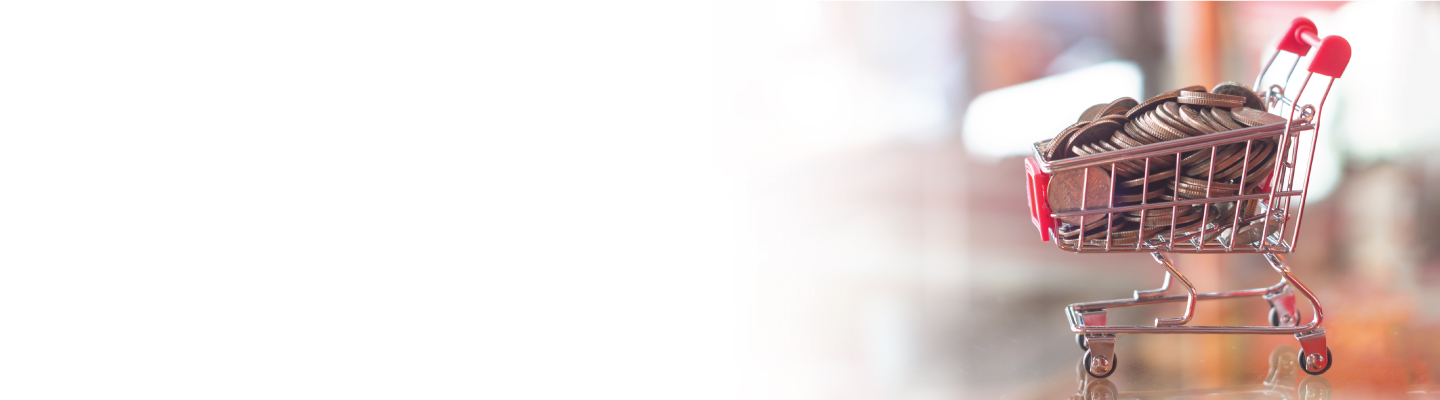
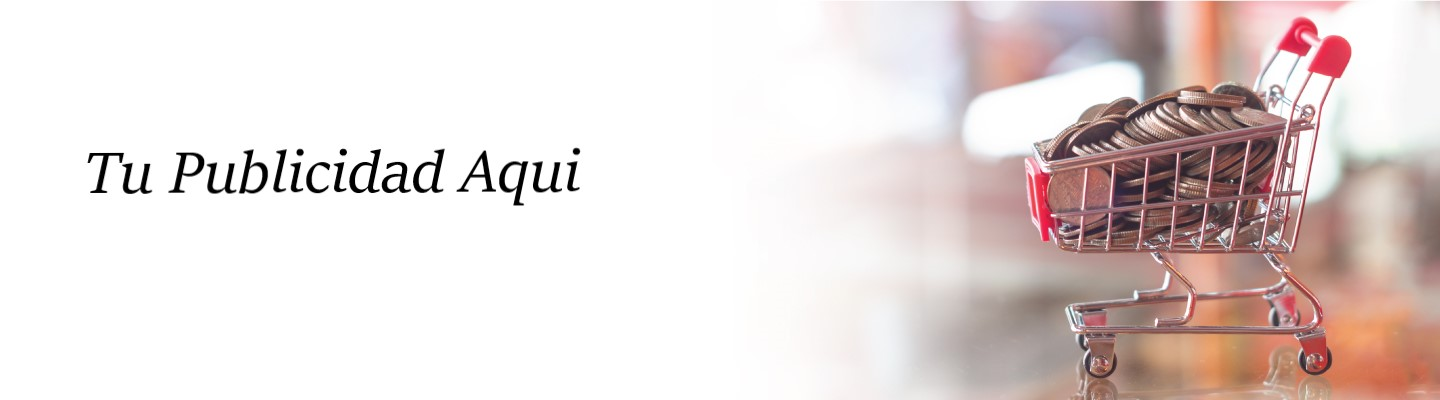
Publicidad

Changed region(s): [[0.0625, 0.36, 0.4062, 0.51]]

diff --git a/index.html b/index.html
@@ -105,7 +105,7 @@
   <div class="status__updater1">
                
                    
-               <a href=""><img class="Imgtext" src="./images/slider.jpg" alt=""></a>
+               <a href=""><img  class="Imgtext" src="./images/slider.jpg" alt=""></a>
 
 
                 
@@ -172,6 +172,53 @@
 </script>
 
             
+
+
+
+  <div class="status__updater1">
+               
+                   
+                <div style="flex: 0.33" class="widgets">
+        <div
+          class="fb-page"
+          data-href="https://www.facebook.com/AFASeleccionArgentina"
+          data-tabs="timeline"
+          data-width="400"
+          data-height="500"
+          data-small-header="false"
+          data-adapt-container-width="true"
+          data-hide-cover="false"
+          data-show-facepile="true"
+        >
+          <blockquote cite="https://www.facebook.com/facebook" class="fb-xfbml-parse-ignore">
+            <a href="https://www.facebook.com/AFASeleccionArgentina">Facebook</a>
+          </blockquote>
+        </div>
+      </div>
+    </div>
+
+
+                
+               
+            
+            
+        </div>
+        
+
+    <div id="fb-root"></div>
+    <script
+      async
+      defer
+      crossorigin="anonymous"
+      src="https://connect.facebook.net/en_GB/sdk.js#xfbml=1&version=v10.0"
+      nonce="zUxEq08J"
+    ></script>
+  <p></p>
+</div>
+
+
+
+
 
 
 

diff --git a/css/style.css b/css/style.css
@@ -356,7 +356,7 @@ p{
 
 .Imgtext {
   width: 50%;
-  height: 11vh;
+  height: 15vh;
   border-radius: 1px;
 }
 
@@ -374,6 +374,7 @@ p{
     width: 90%;
     text-align: center;
     padding: 1px;
+    
 }
 
 
